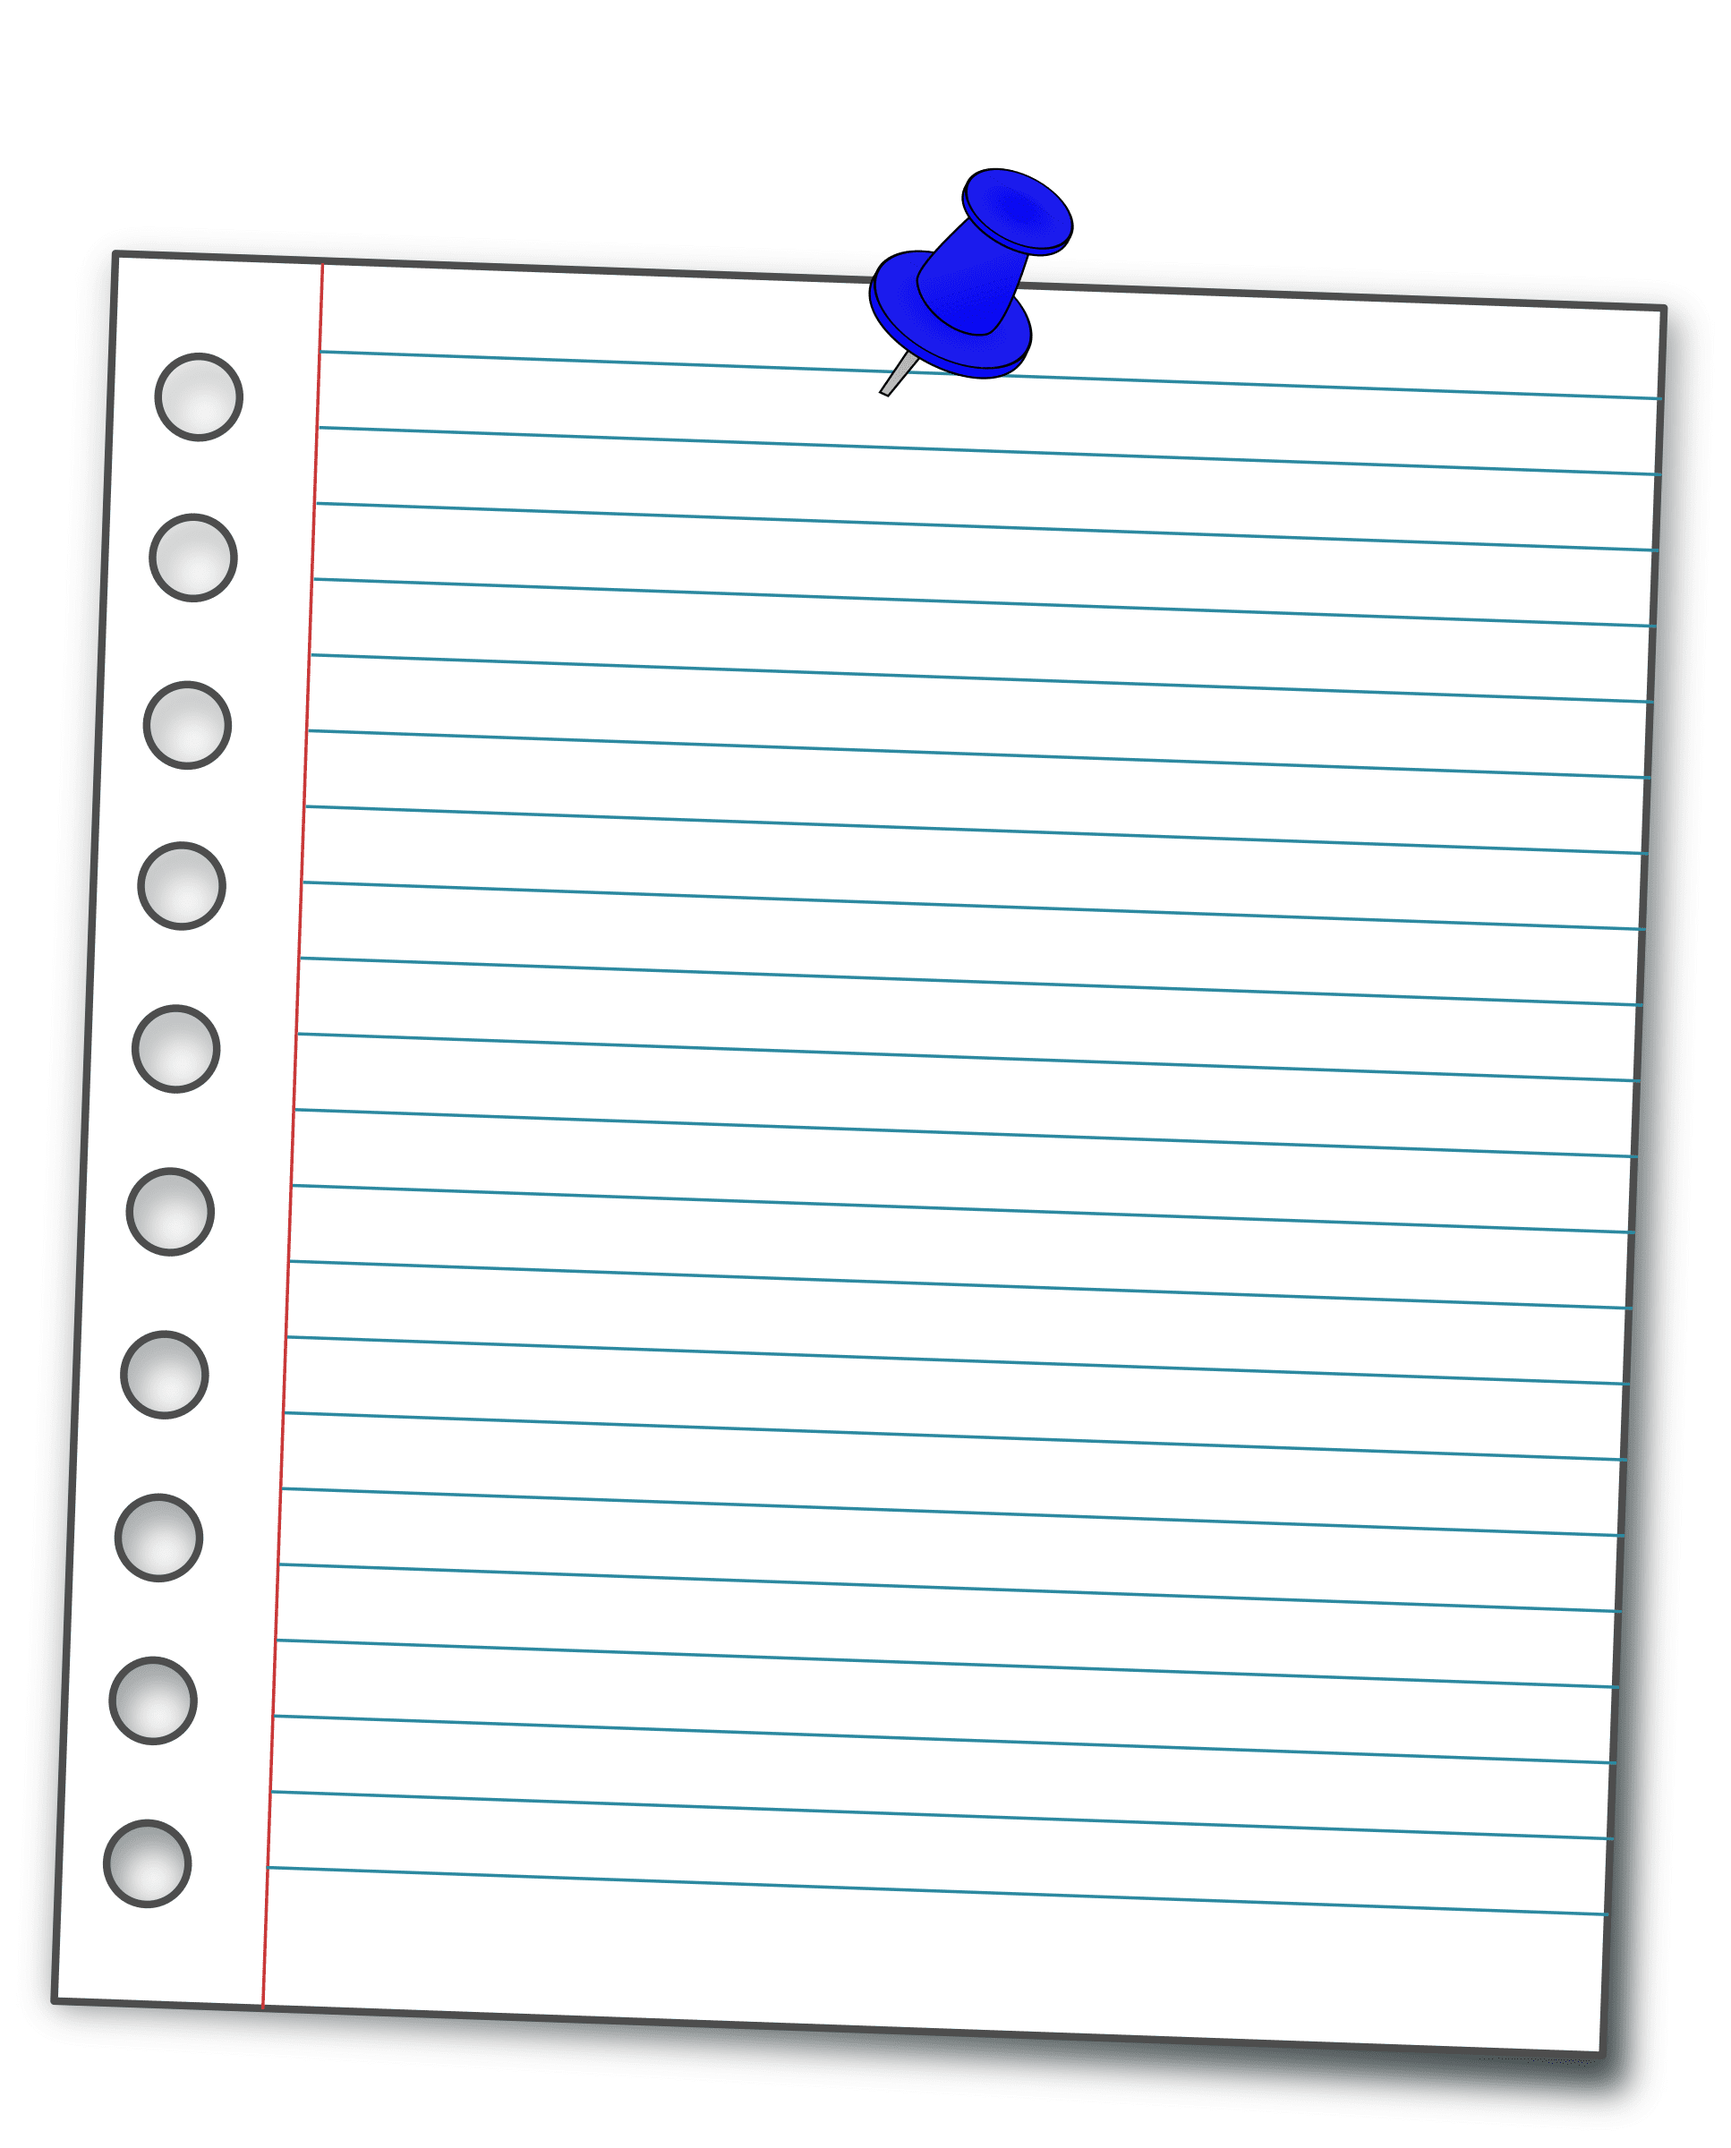
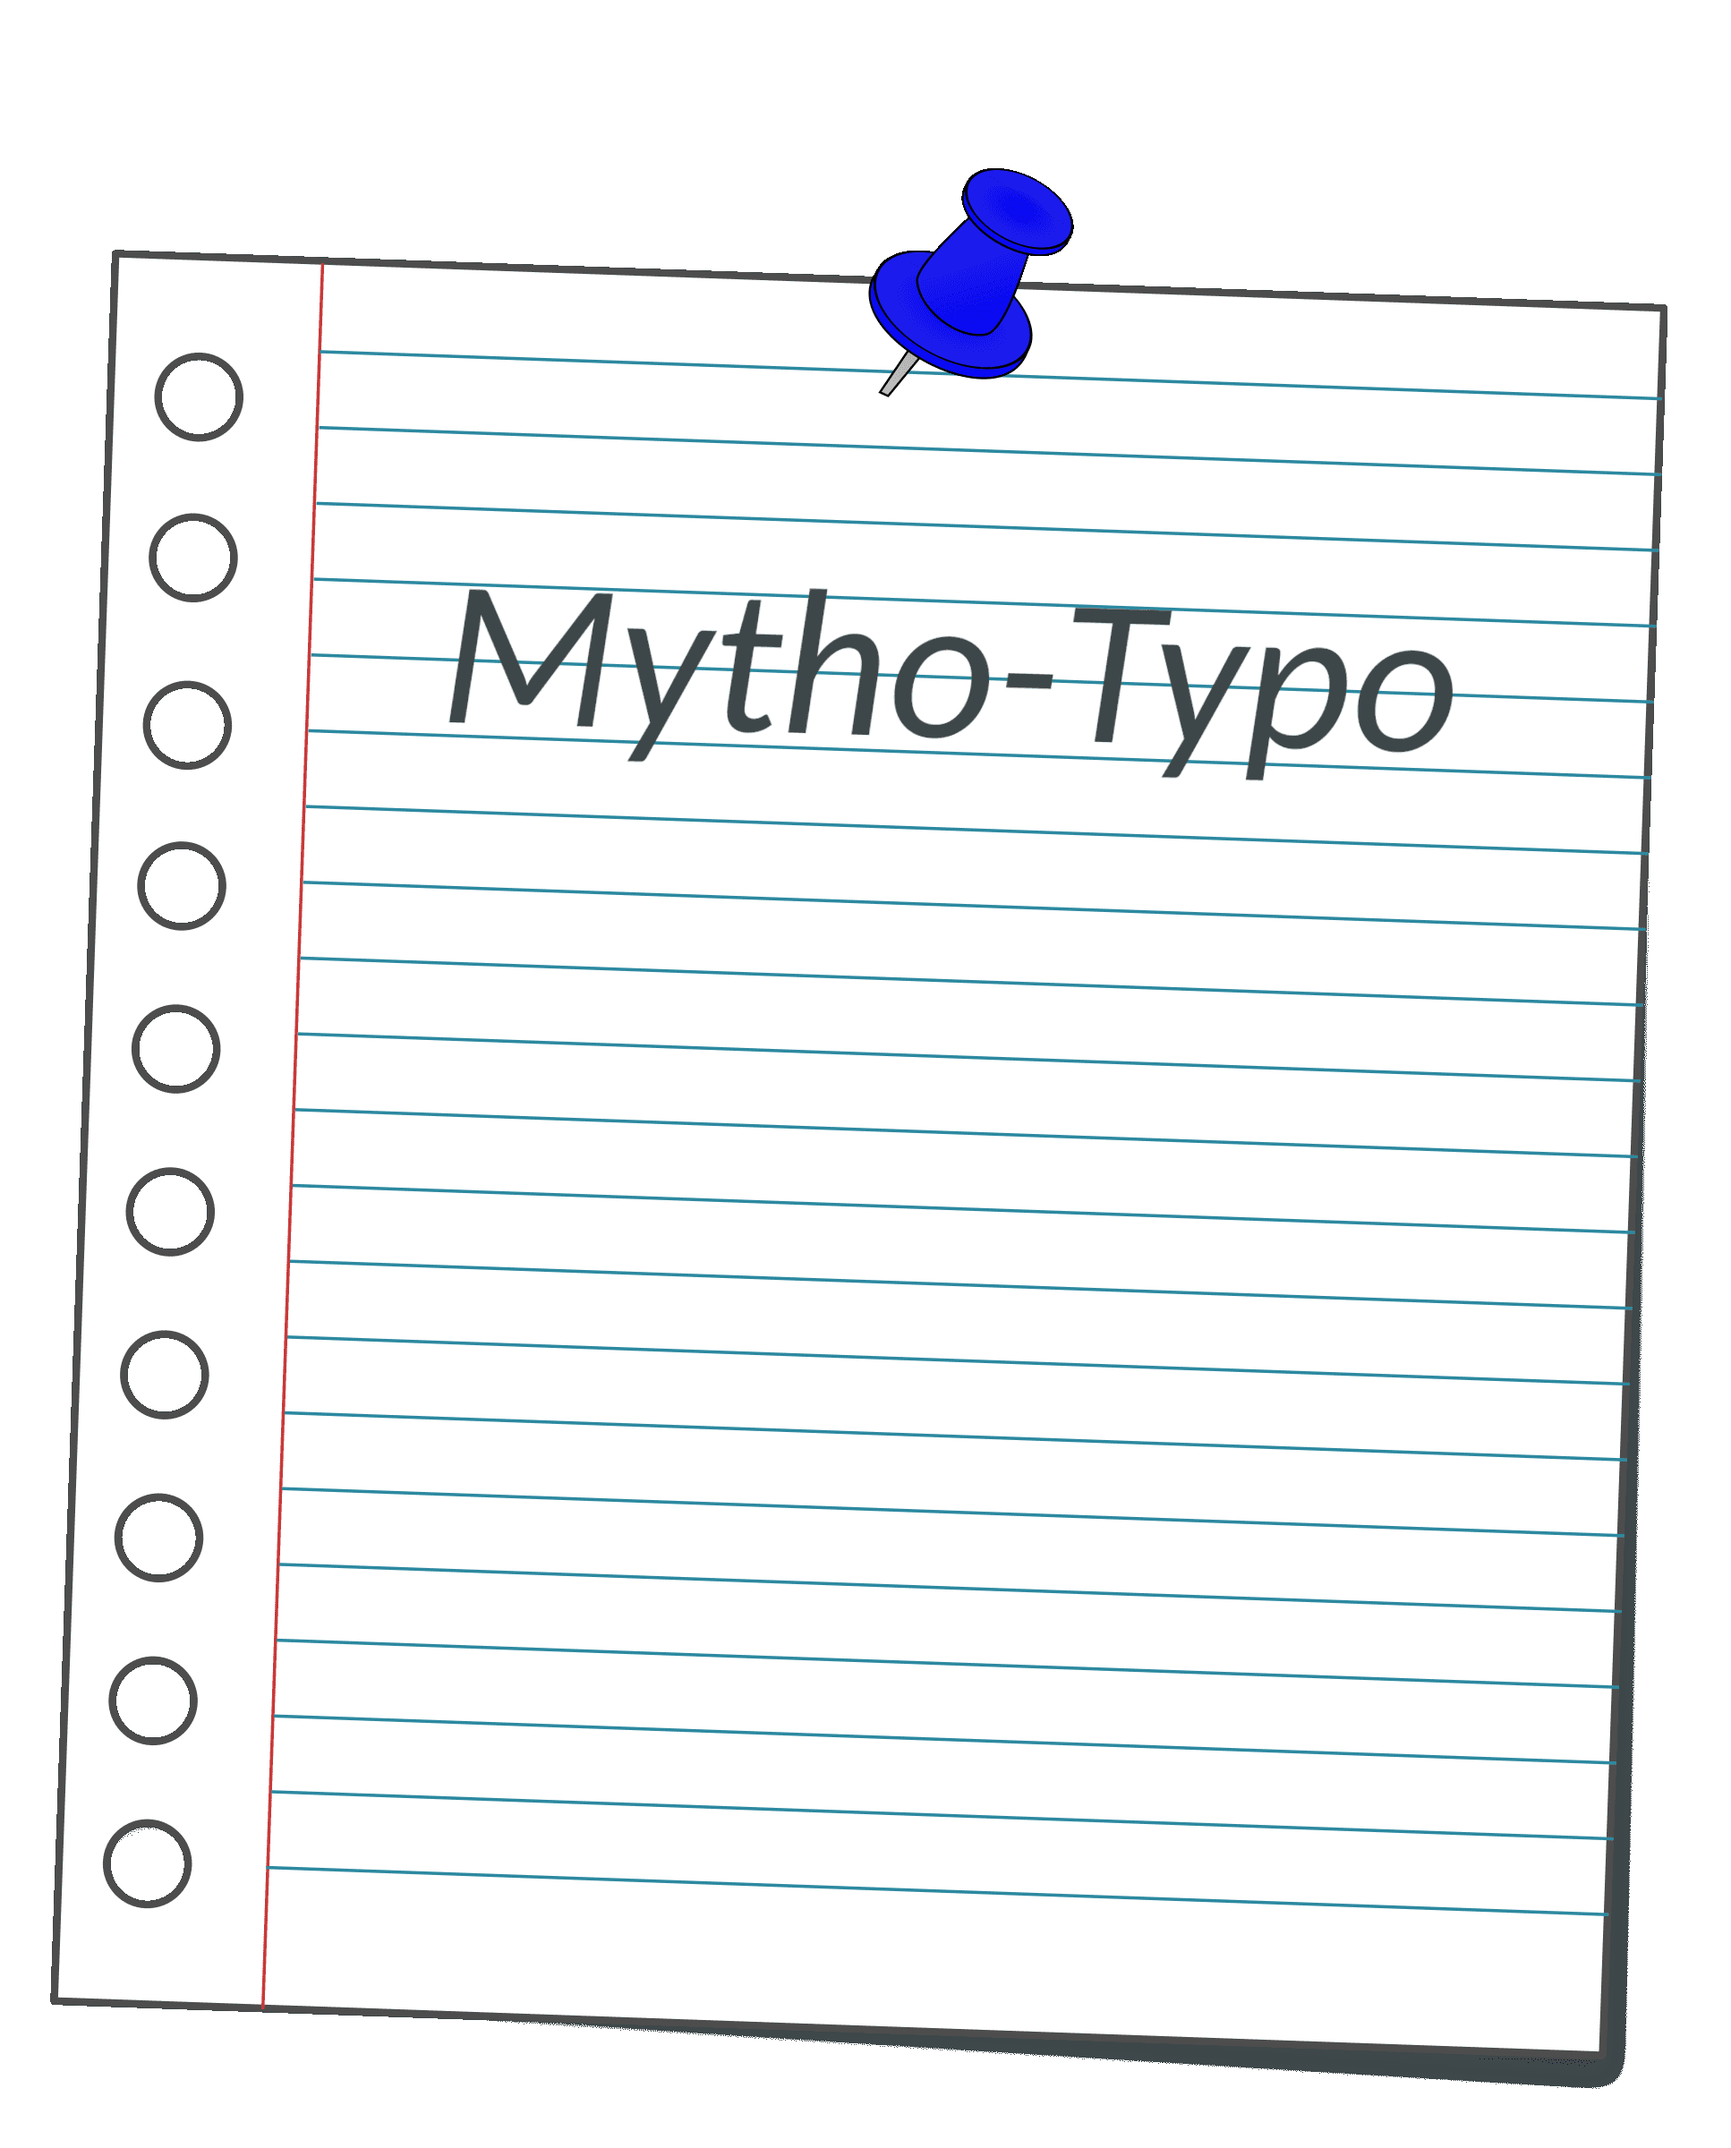
Little fixes images

diff --git a/src/screens/MainBoardScreen.tsx b/src/screens/MainBoardScreen.tsx
@@ -101,13 +101,13 @@ const MainBoardScreen = ({ }) => {
                         <TouchableOpacity onPress={() => navigation.navigate("MythoTypo")}
                             style={{
                                 position: 'absolute',
-                                top: windowWidth > 768 ? '56%' : '56%',
+                                top: windowWidth > 768 ? '53%' : '53%',
                                 left: windowWidth > 768 ? '68%' : '68%',
                             }}>
                             <Image
                                 resizeMode="contain"
 
-                                source={require('images/paper_2.png')} style={{ width: windowWidth * 0.12, height: windowWidth * 0.1, minWidth: 70, minHeight: 70 }} />
+                                source={require('images/paper_2.png')} style={{ width: windowWidth * 0.12, height: windowWidth * 0.1, minWidth: 80, minHeight: 80 }} />
                         </TouchableOpacity>
 
                         <TouchableOpacity onPress={() => navigation.navigate("MythoOuPas")}
@@ -135,7 +135,7 @@ const MainBoardScreen = ({ }) => {
                                 top: windowWidth > 768 ? '56%' : '56%',
                                 left: windowWidth > 768 ? '37%' : '37%',
                             }}>
-                            <Image source={require('images/postit_condition.png')} style={{
+                            <Image source={require('images/postit_mytho_tempo.png')} style={{
                                 width: windowWidth * 0.06, height: windowWidth * 0.06, minWidth: 60, minHeight: 60,
                                 shadowColor: 'black',
                                 shadowOffset: { width: -1, height: 2 },

diff --git a/src/screens/authScreens/SignUpScreen.tsx b/src/screens/authScreens/SignUpScreen.tsx
@@ -27,7 +27,7 @@ const SignUpScreen = () => {
 
     const options = [
         { key: 'option1', label: 'Je suis médecin ou étudiant en médecine', value: 'medecin' },
-        { key: 'option2', label: 'Je ne suis ni médecin ni étudiant en médecine', value: 'autre' },
+        { key: 'option2', label: 'Je ne suis ni l\'un ni l\'autre', value: 'autre' },
         { key: 'option3', label: 'Je ne souhaite pas répondre', value: 'inconnu' },
     ];
 

diff --git a/src/services/api/index.tsx b/src/services/api/index.tsx
@@ -2,8 +2,8 @@ import axios from "axios";
 import { API_URL } from "@env";
 
 const api = axios.create({
-  // baseURL: "https://codeine.atilf.fr/api"
-  baseURL: "http://localhost:3001"
+  baseURL: "https://codeine.atilf.fr/api"
+  // baseURL: "http://localhost:3001"
 });
 
 export default api;
